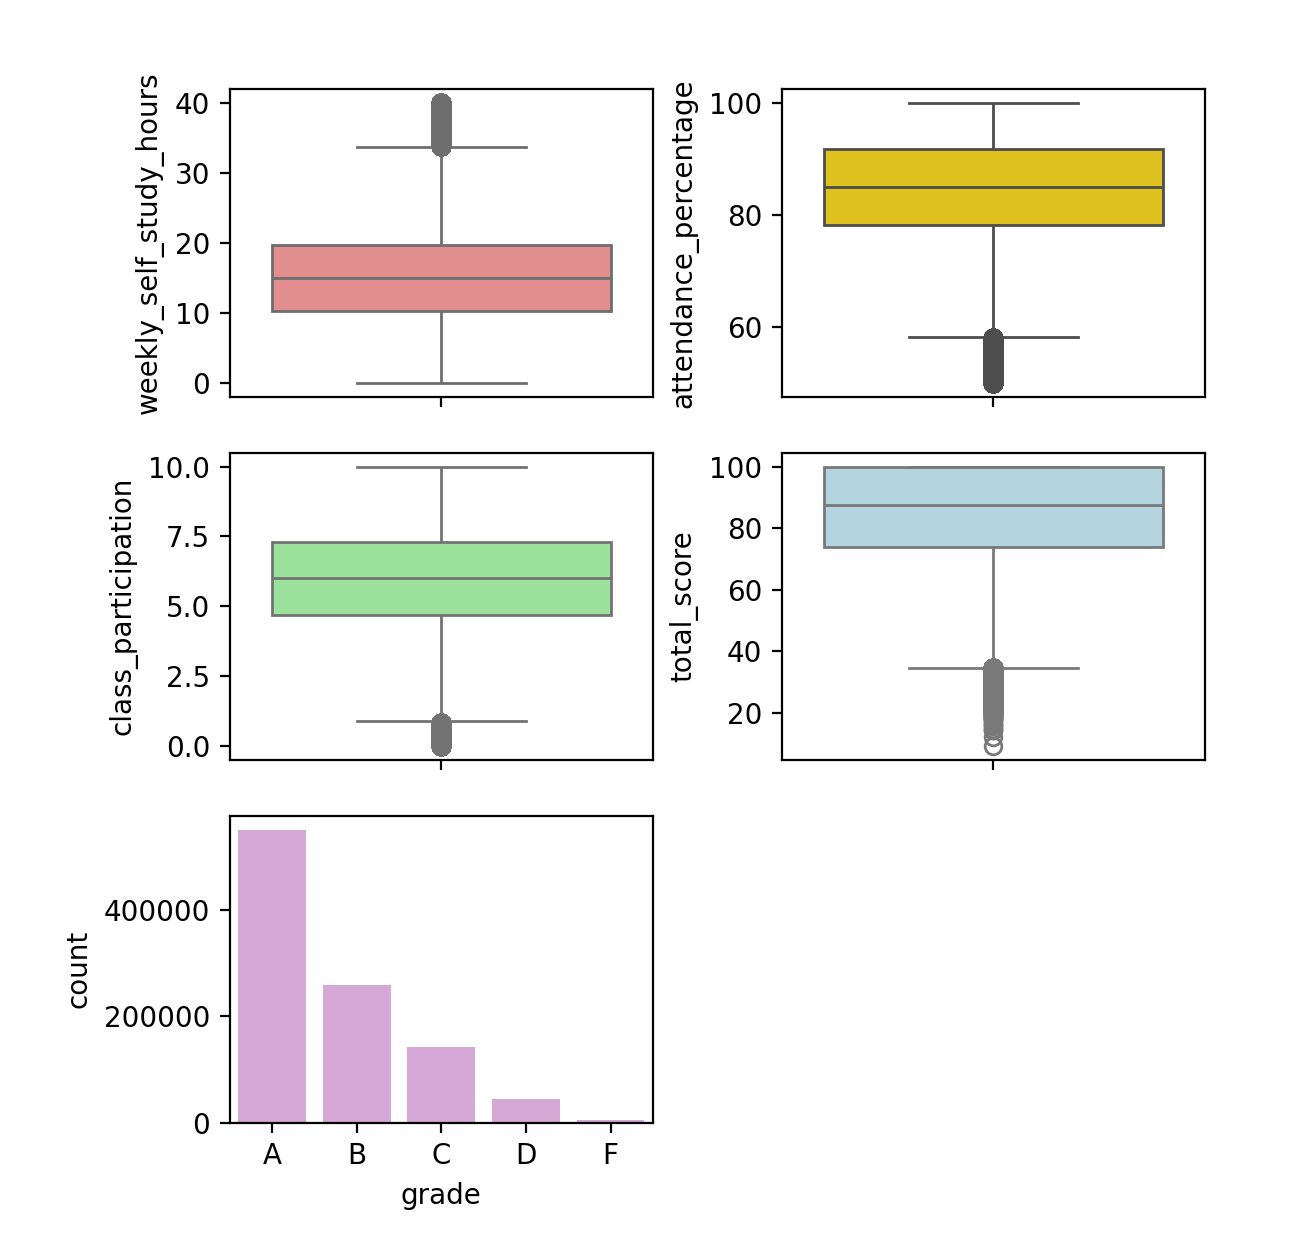
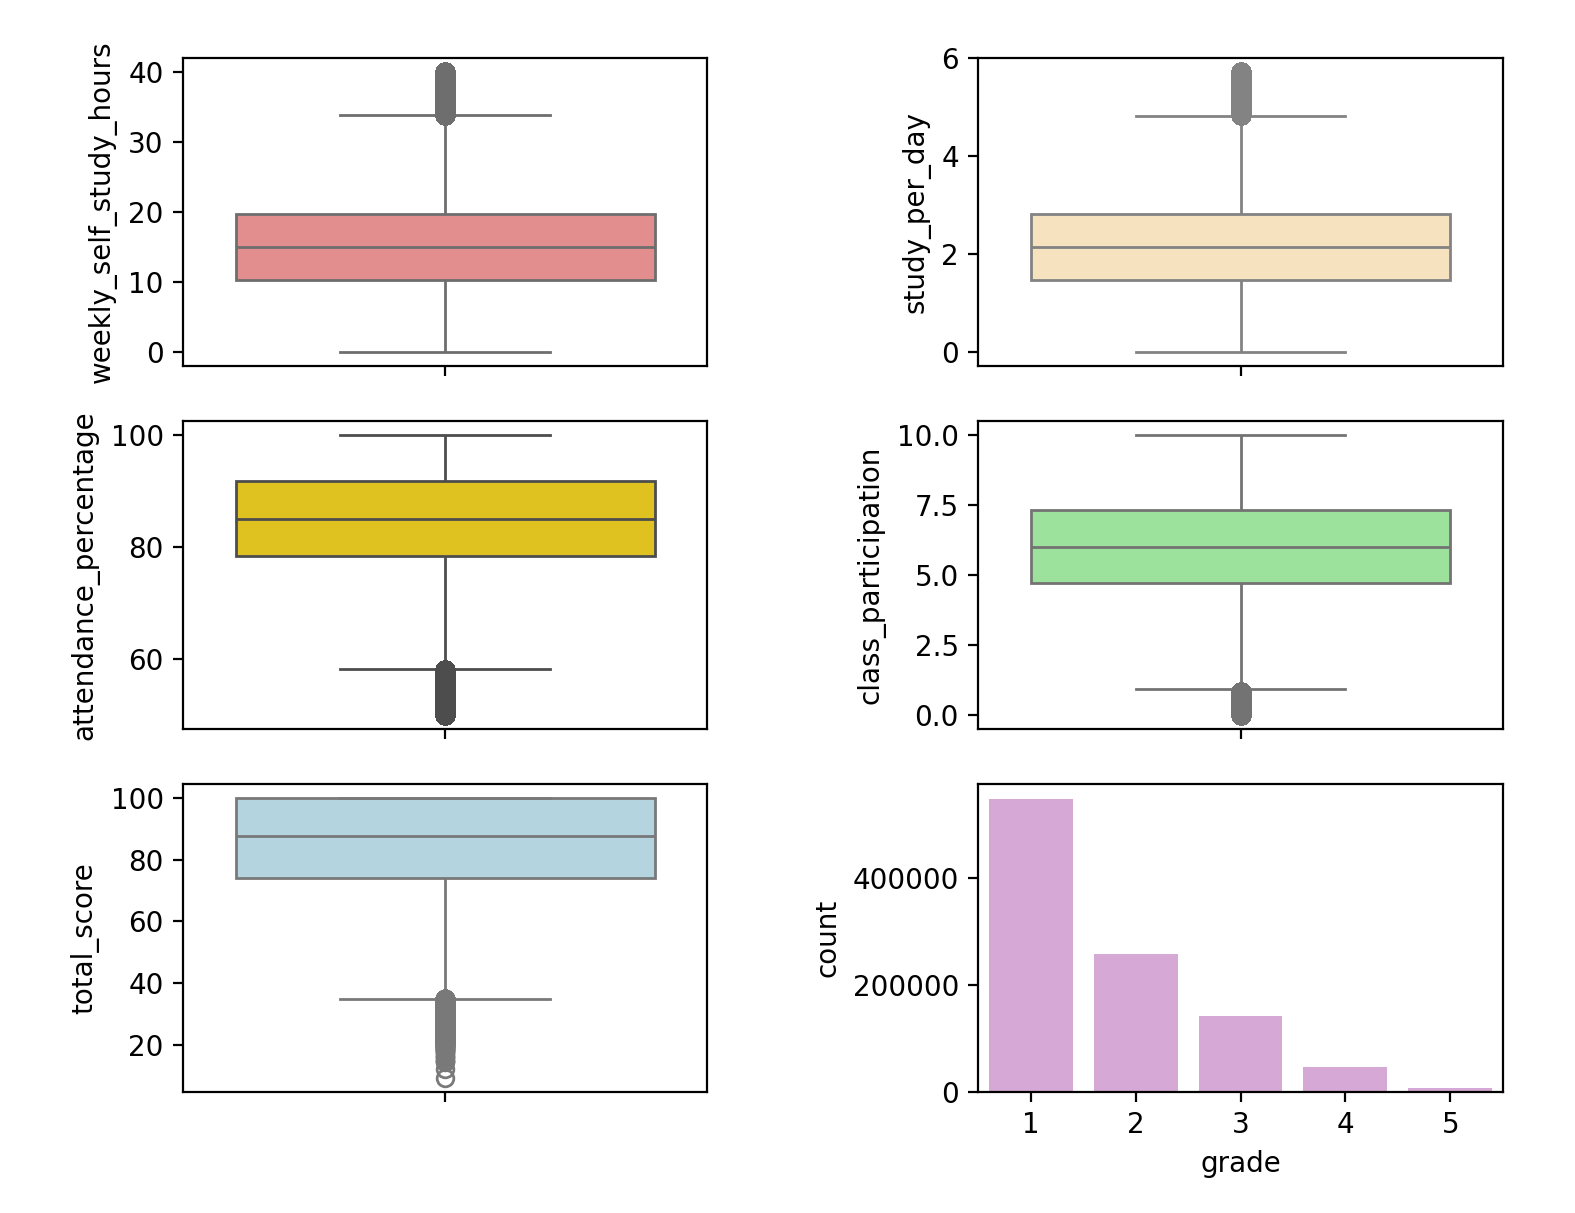
EDA corrected

diff --git a/app.py b/app.py
@@ -1,8 +1,10 @@
 import pandas as pd
 import matplotlib.pyplot as plt
 import seaborn as sns
+from sklearn.feature_selection import mutual_info_classif
 
 
+# 1⃣ Load and Inspect Data
 df  = pd.read_csv("./student_performance.csv")
 df.info()
 print(df.head())
@@ -13,25 +15,48 @@ print(df["class_participation"].head())
 print(df["total_score"].head())
 
 
-fig, axs = plt.subplots(3,2, figsize = (10,10))
-sns.boxplot(data=df, y = "weekly_self_study_hours", ax= axs[0,0], color= "lightcoral")
-sns.boxplot(data=df, y = "attendance_percentage", ax= axs[0,1], color = "gold")
-sns.boxplot(data=df, y = "class_participation", ax= axs[1,0], color = "lightgreen")
-sns.boxplot(data=df, y = "total_score", ax= axs[1,1], color = "lightblue")
-sns.countplot(data=df, x = "grade", ax= axs[2,0], color = "plum")
-fig.delaxes(axs[2, 1])
-plt.tight_layout()
-plt.show()
+# 2⃣ Data Cleaning
+print(df.isnull().sum())
+print(df.dtypes)
 
 
+# 3⃣ Feature Engineering
 df["grade"] = df["grade"].map({"A": 1, "B": 2, "C": 3, "D": 4, "F": 5}).astype(int)
+study_per_day = df["weekly_self_study_hours"] / 7
+df["study_per_day"] = study_per_day
+print(df.head())
 
+
+
+# 4⃣ Exploratory Data Analysis (EDA)
+fig, axs = plt.subplots(3,2, figsize = (10,10))
+sns.boxplot(data=df, y="weekly_self_study_hours", ax=axs[0,0], color="lightcoral")
+sns.boxplot(data=df, y="study_per_day", ax=axs[0,1], color="moccasin")
+sns.boxplot(data=df, y="attendance_percentage", ax=axs[1,0], color="gold")
+sns.boxplot(data=df, y="class_participation", ax=axs[1,1], color="lightgreen")
+sns.boxplot(data=df, y="total_score", ax=axs[2,0], color="lightblue")
+sns.countplot(data=df, x="grade", ax=axs[2,1], color="plum")
+plt.tight_layout()
+#plt.show()
 
 numeric_cols = df.drop(columns = ["student_id"])
 corr = numeric_cols.corr()
 print(corr)
 sns.heatmap(corr, annot=True, cmap="coolwarm", fmt=".2f")
 plt.suptitle("Correlation between each numeric feature and grade")
-plt.show()
+#plt.show()
 
+df_sample = df.sample(n=100, random_state=42)  # 10k rows instead of 1M
+X_sample = df_sample[['weekly_self_study_hours', 'study_per_day', 'attendance_percentage', 'class_participation', 'total_score']]
+y_sample = df_sample['grade']
+mi_scores = mutual_info_classif(X_sample, y_sample, discrete_features=False, random_state=42)
+print(f"miutual information of random 1000 samples : {mi_scores}")
+
+fig, axs = plt.subplots(2,2, figsize = (10,10))
+sns.scatterplot(data=df_sample, x="weekly_self_study_hours",y="total_score",  ax=axs[0,0], hue="grade")
+sns.scatterplot(data=df_sample, x="study_per_day",y="total_score",  ax=axs[0,1], hue="grade")
+sns.scatterplot(data=df_sample, x="attendance_percentage", y="total_score", ax=axs[1,0], hue="grade")
+sns.scatterplot(data=df_sample, x="class_participation",y="total_score",  ax=axs[1,1], hue="grade")
+plt.tight_layout()
+plt.show()
 
